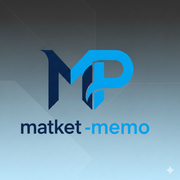
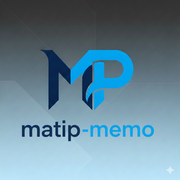
feat: ユーザー削除時の参照チェックAPI追加＆アイコン差し替え
- GET /api/users/[id]/refs で6テーブルの参照件数を返すAPIを追加
- 削除ボタン押下時にモーダルで参照状況を表示、関連データがあれば削除不可
- favicon/PWAアイコンをmatip-memo-icon.pngに統一

Changed region(s): [[0.1111, 0.6667, 0.8611, 0.8056]]

diff --git a/app/page.tsx b/app/page.tsx
@@ -37,6 +37,12 @@ export default function Page() {
   const [deleteMode, setDeleteMode] = useState(false);
   const [newUserName, setNewUserName] = useState('');
 
+  // Delete confirmation modal
+  const [deleteTarget, setDeleteTarget] = useState<User | null>(null);
+  const [deleteRefs, setDeleteRefs] = useState<{ counts: Record<string, number>; canDelete: boolean } | null>(null);
+  const [deleteLoading, setDeleteLoading] = useState(false);
+  const [deleteError, setDeleteError] = useState<string | null>(null);
+
   // Drag & Drop
   const [dragIndex, setDragIndex] = useState<number | null>(null);
   const [dragOverIndex, setDragOverIndex] = useState<number | null>(null);
@@ -177,22 +183,39 @@ export default function Page() {
       alert('最低1人のユーザーが必要です');
       return;
     }
-
-    // Check if user has assigned tasks in Supabase (open or done)
-    const allDeals = await getDeals();
-    const userTasks = allDeals.filter(d => d.assignee === user.id);
-    if (userTasks.length > 0) {
-      alert(`「${user.name}」には${userTasks.length}件の案件があるため削除できません。\n案件をすべて削除してから再度お試しください。`);
-      return;
+    // モーダルを開いて参照件数を取得
+    setDeleteTarget(user);
+    setDeleteRefs(null);
+    setDeleteError(null);
+    setDeleteLoading(true);
+    try {
+      const res = await fetch(`/api/users/${user.id}/refs`);
+      if (!res.ok) throw new Error(`HTTP ${res.status}`);
+      const data = await res.json();
+      setDeleteRefs({ counts: data.counts, canDelete: data.canDelete });
+    } catch (e: unknown) {
+      setDeleteError(e instanceof Error ? e.message : '参照件数の取得に失敗しました');
+    } finally {
+      setDeleteLoading(false);
     }
+  };
 
-    if (!confirm(`「${user.name}」を削除しますか？`)) return;
-    const ok = await deleteUser(user.id);
+  const confirmDeleteUser = async () => {
+    if (!deleteTarget) return;
+    const ok = await deleteUser(deleteTarget.id);
     if (ok) {
-      setUsers(users.filter(u => u.id !== user.id));
+      setUsers(users.filter(u => u.id !== deleteTarget.id));
     } else {
       alert('ユーザーの削除に失敗しました');
     }
+    setDeleteTarget(null);
+    setDeleteRefs(null);
+  };
+
+  const closeDeleteModal = () => {
+    setDeleteTarget(null);
+    setDeleteRefs(null);
+    setDeleteError(null);
   };
 
   // Handle delete user flow
@@ -609,6 +632,89 @@ export default function Page() {
             </button>
           </div>
         </div>
+
+        {/* 削除確認モーダル */}
+        {deleteTarget && (
+          <div style={{
+            position: 'fixed', top: 0, left: 0, right: 0, bottom: 0,
+            background: 'rgba(0,0,0,0.5)', display: 'flex', alignItems: 'center', justifyContent: 'center',
+            zIndex: 1000, padding: '16px',
+          }} onClick={closeDeleteModal}>
+            <div
+              className="glass-panel"
+              style={{ maxWidth: '400px', width: '100%', padding: '24px', borderRadius: '16px' }}
+              onClick={e => e.stopPropagation()}
+            >
+              <h3 style={{ margin: '0 0 16px', color: '#1e293b' }}>
+                「{deleteTarget.name}」の参照状況
+              </h3>
+
+              {deleteLoading && (
+                <p style={{ color: '#64748b', textAlign: 'center' }}>読み込み中...</p>
+              )}
+
+              {deleteError && (
+                <p style={{ color: '#ef4444' }}>エラー: {deleteError}</p>
+              )}
+
+              {deleteRefs && (
+                <>
+                  <table style={{ width: '100%', borderCollapse: 'collapse', marginBottom: '16px', fontSize: '14px' }}>
+                    <tbody>
+                      {[
+                        ['案件（ポケット）', deleteRefs.counts.pocket_matip],
+                        ['メモ（作成）', deleteRefs.counts.memo_created],
+                        ['メモ（担当）', deleteRefs.counts.memo_assigned],
+                        ['未読', deleteRefs.counts.memo_unread],
+                        ['通知購読', deleteRefs.counts.push_subs],
+                        ['通知ログ', deleteRefs.counts.notif_triggered],
+                      ].map(([label, count]) => (
+                        <tr key={label as string} style={{ borderBottom: '1px solid #e2e8f0' }}>
+                          <td style={{ padding: '8px 4px', color: '#475569' }}>{label}</td>
+                          <td style={{
+                            padding: '8px 4px', textAlign: 'right', fontWeight: 'bold',
+                            color: (count as number) > 0 ? '#ef4444' : '#22c55e',
+                          }}>
+                            {count}件
+                          </td>
+                        </tr>
+                      ))}
+                    </tbody>
+                  </table>
+
+                  {deleteRefs.canDelete ? (
+                    <div style={{ display: 'flex', gap: '8px' }}>
+                      <button
+                        onClick={closeDeleteModal}
+                        style={{ flex: 1, padding: '12px', background: '#64748b', color: '#fff', border: 'none', borderRadius: '12px', fontWeight: '600', cursor: 'pointer' }}
+                      >
+                        キャンセル
+                      </button>
+                      <button
+                        onClick={confirmDeleteUser}
+                        style={{ flex: 1, padding: '12px', background: '#ef4444', color: '#fff', border: 'none', borderRadius: '12px', fontWeight: '600', cursor: 'pointer' }}
+                      >
+                        削除する
+                      </button>
+                    </div>
+                  ) : (
+                    <>
+                      <p style={{ color: '#ef4444', fontWeight: 'bold', fontSize: '14px', margin: '0 0 12px' }}>
+                        関連データが残っているため削除できません
+                      </p>
+                      <button
+                        onClick={closeDeleteModal}
+                        style={{ width: '100%', padding: '12px', background: '#64748b', color: '#fff', border: 'none', borderRadius: '12px', fontWeight: '600', cursor: 'pointer' }}
+                      >
+                        閉じる
+                      </button>
+                    </>
+                  )}
+                </>
+              )}
+            </div>
+          </div>
+        )}
       </div>
     );
   }

diff --git a/app/api/users/[id]/refs/route.ts b/app/api/users/[id]/refs/route.ts
@@ -1,0 +1,75 @@
+import { NextRequest, NextResponse } from 'next/server';
+import { supabaseAdmin } from '../../../../../lib/supabase-server';
+
+export const runtime = 'nodejs';
+
+// ---------------------------------------------------------------------------
+// GET /api/users/[id]/refs
+// 指定ユーザーが参照されているレコード件数を返す
+// ---------------------------------------------------------------------------
+export async function GET(
+  _req: NextRequest,
+  { params }: { params: Promise<{ id: string }> },
+) {
+  const { id: userId } = await params;
+
+  if (!userId) {
+    return NextResponse.json({ error: 'userId is required' }, { status: 400 });
+  }
+
+  try {
+    // head:true + count:'exact' で件数だけ取得（データ本体は返さない）
+    const [
+      pocketMatip,
+      memoCreated,
+      memoAssigned,
+      memoUnread,
+      pushSubs,
+      notifTriggered,
+    ] = await Promise.all([
+      supabaseAdmin
+        .from('pocket-matip')
+        .select('*', { count: 'exact', head: true })
+        .eq('user_id', userId),
+      supabaseAdmin
+        .from('matip-memo')
+        .select('*', { count: 'exact', head: true })
+        .eq('created_by', userId),
+      supabaseAdmin
+        .from('matip-memo')
+        .select('*', { count: 'exact', head: true })
+        .eq('assignee', userId),
+      supabaseAdmin
+        .from('matip-memo-unread')
+        .select('*', { count: 'exact', head: true })
+        .eq('user_id', userId),
+      supabaseAdmin
+        .from('push_subscriptions')
+        .select('*', { count: 'exact', head: true })
+        .eq('user_id', userId),
+      supabaseAdmin
+        .from('notification_log')
+        .select('*', { count: 'exact', head: true })
+        .eq('triggered_by_user_id', userId),
+    ]);
+
+    const counts = {
+      pocket_matip: pocketMatip.count ?? 0,
+      memo_created: memoCreated.count ?? 0,
+      memo_assigned: memoAssigned.count ?? 0,
+      memo_unread: memoUnread.count ?? 0,
+      push_subs: pushSubs.count ?? 0,
+      notif_triggered: notifTriggered.count ?? 0,
+    };
+
+    const canDelete = Object.values(counts).every(c => c === 0);
+
+    return NextResponse.json({ userId, counts, canDelete });
+  } catch (e) {
+    console.error('[users/refs] exception:', e);
+    return NextResponse.json(
+      { error: 'Internal server error' },
+      { status: 500 },
+    );
+  }
+}
